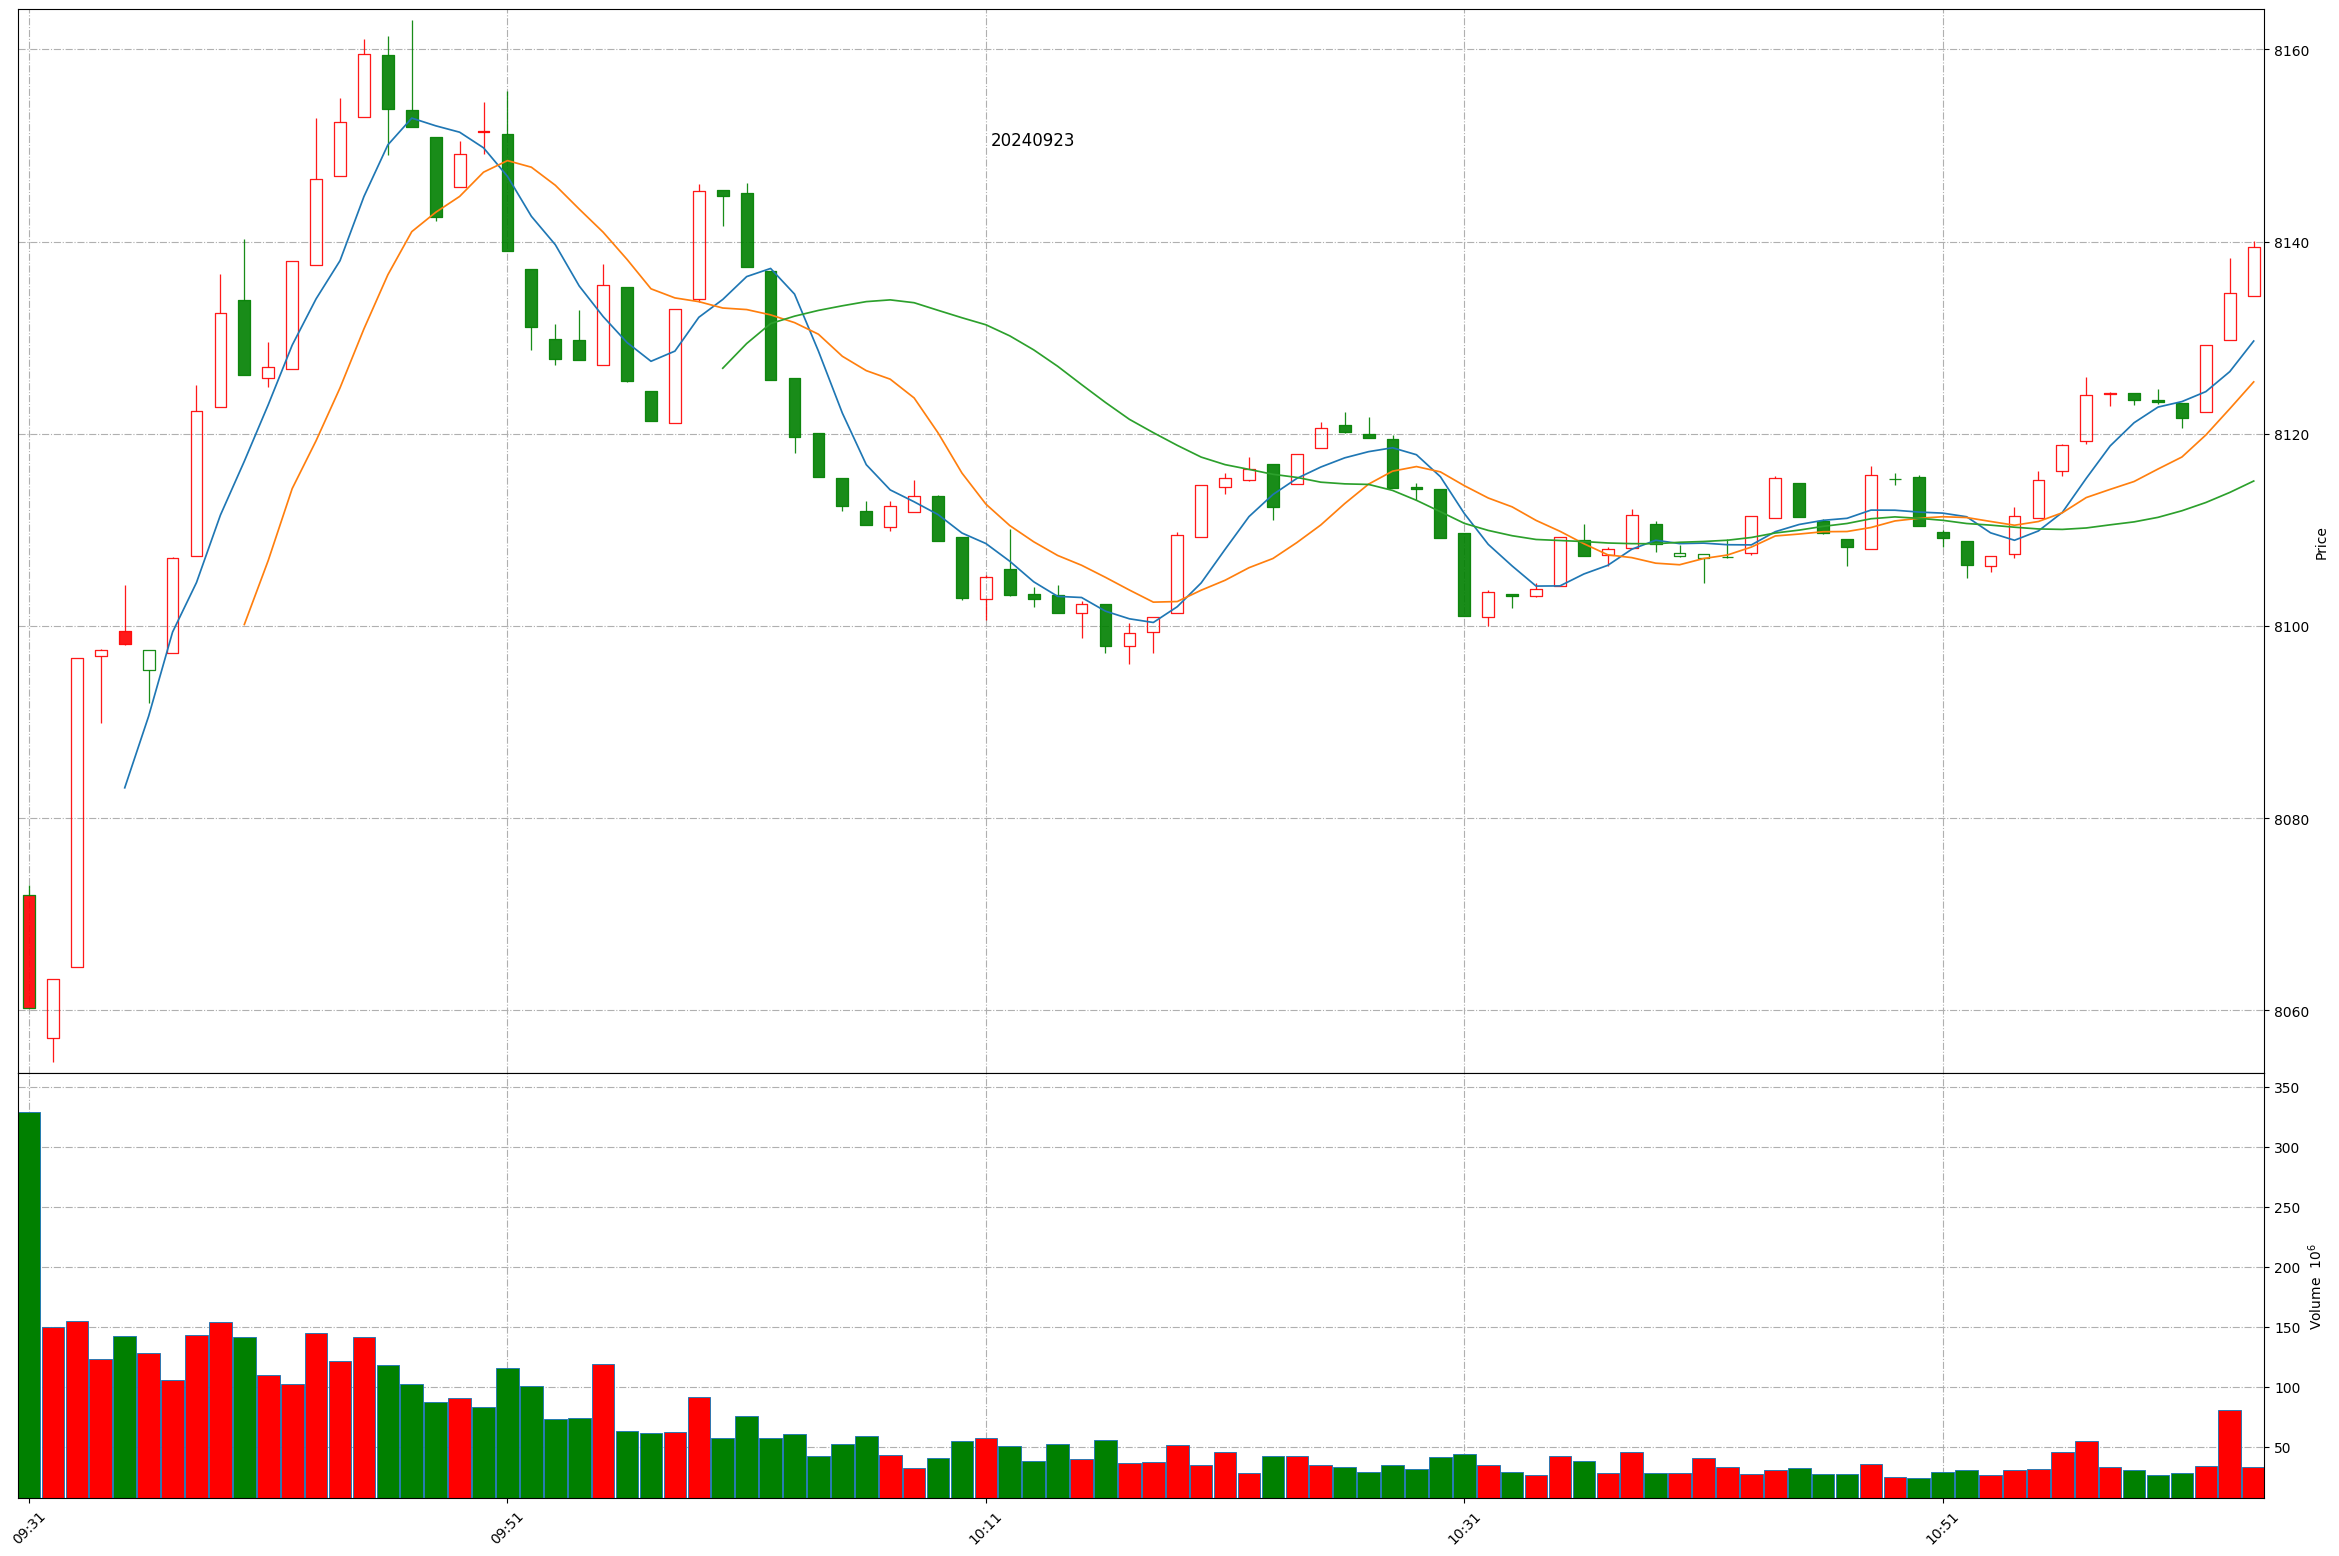
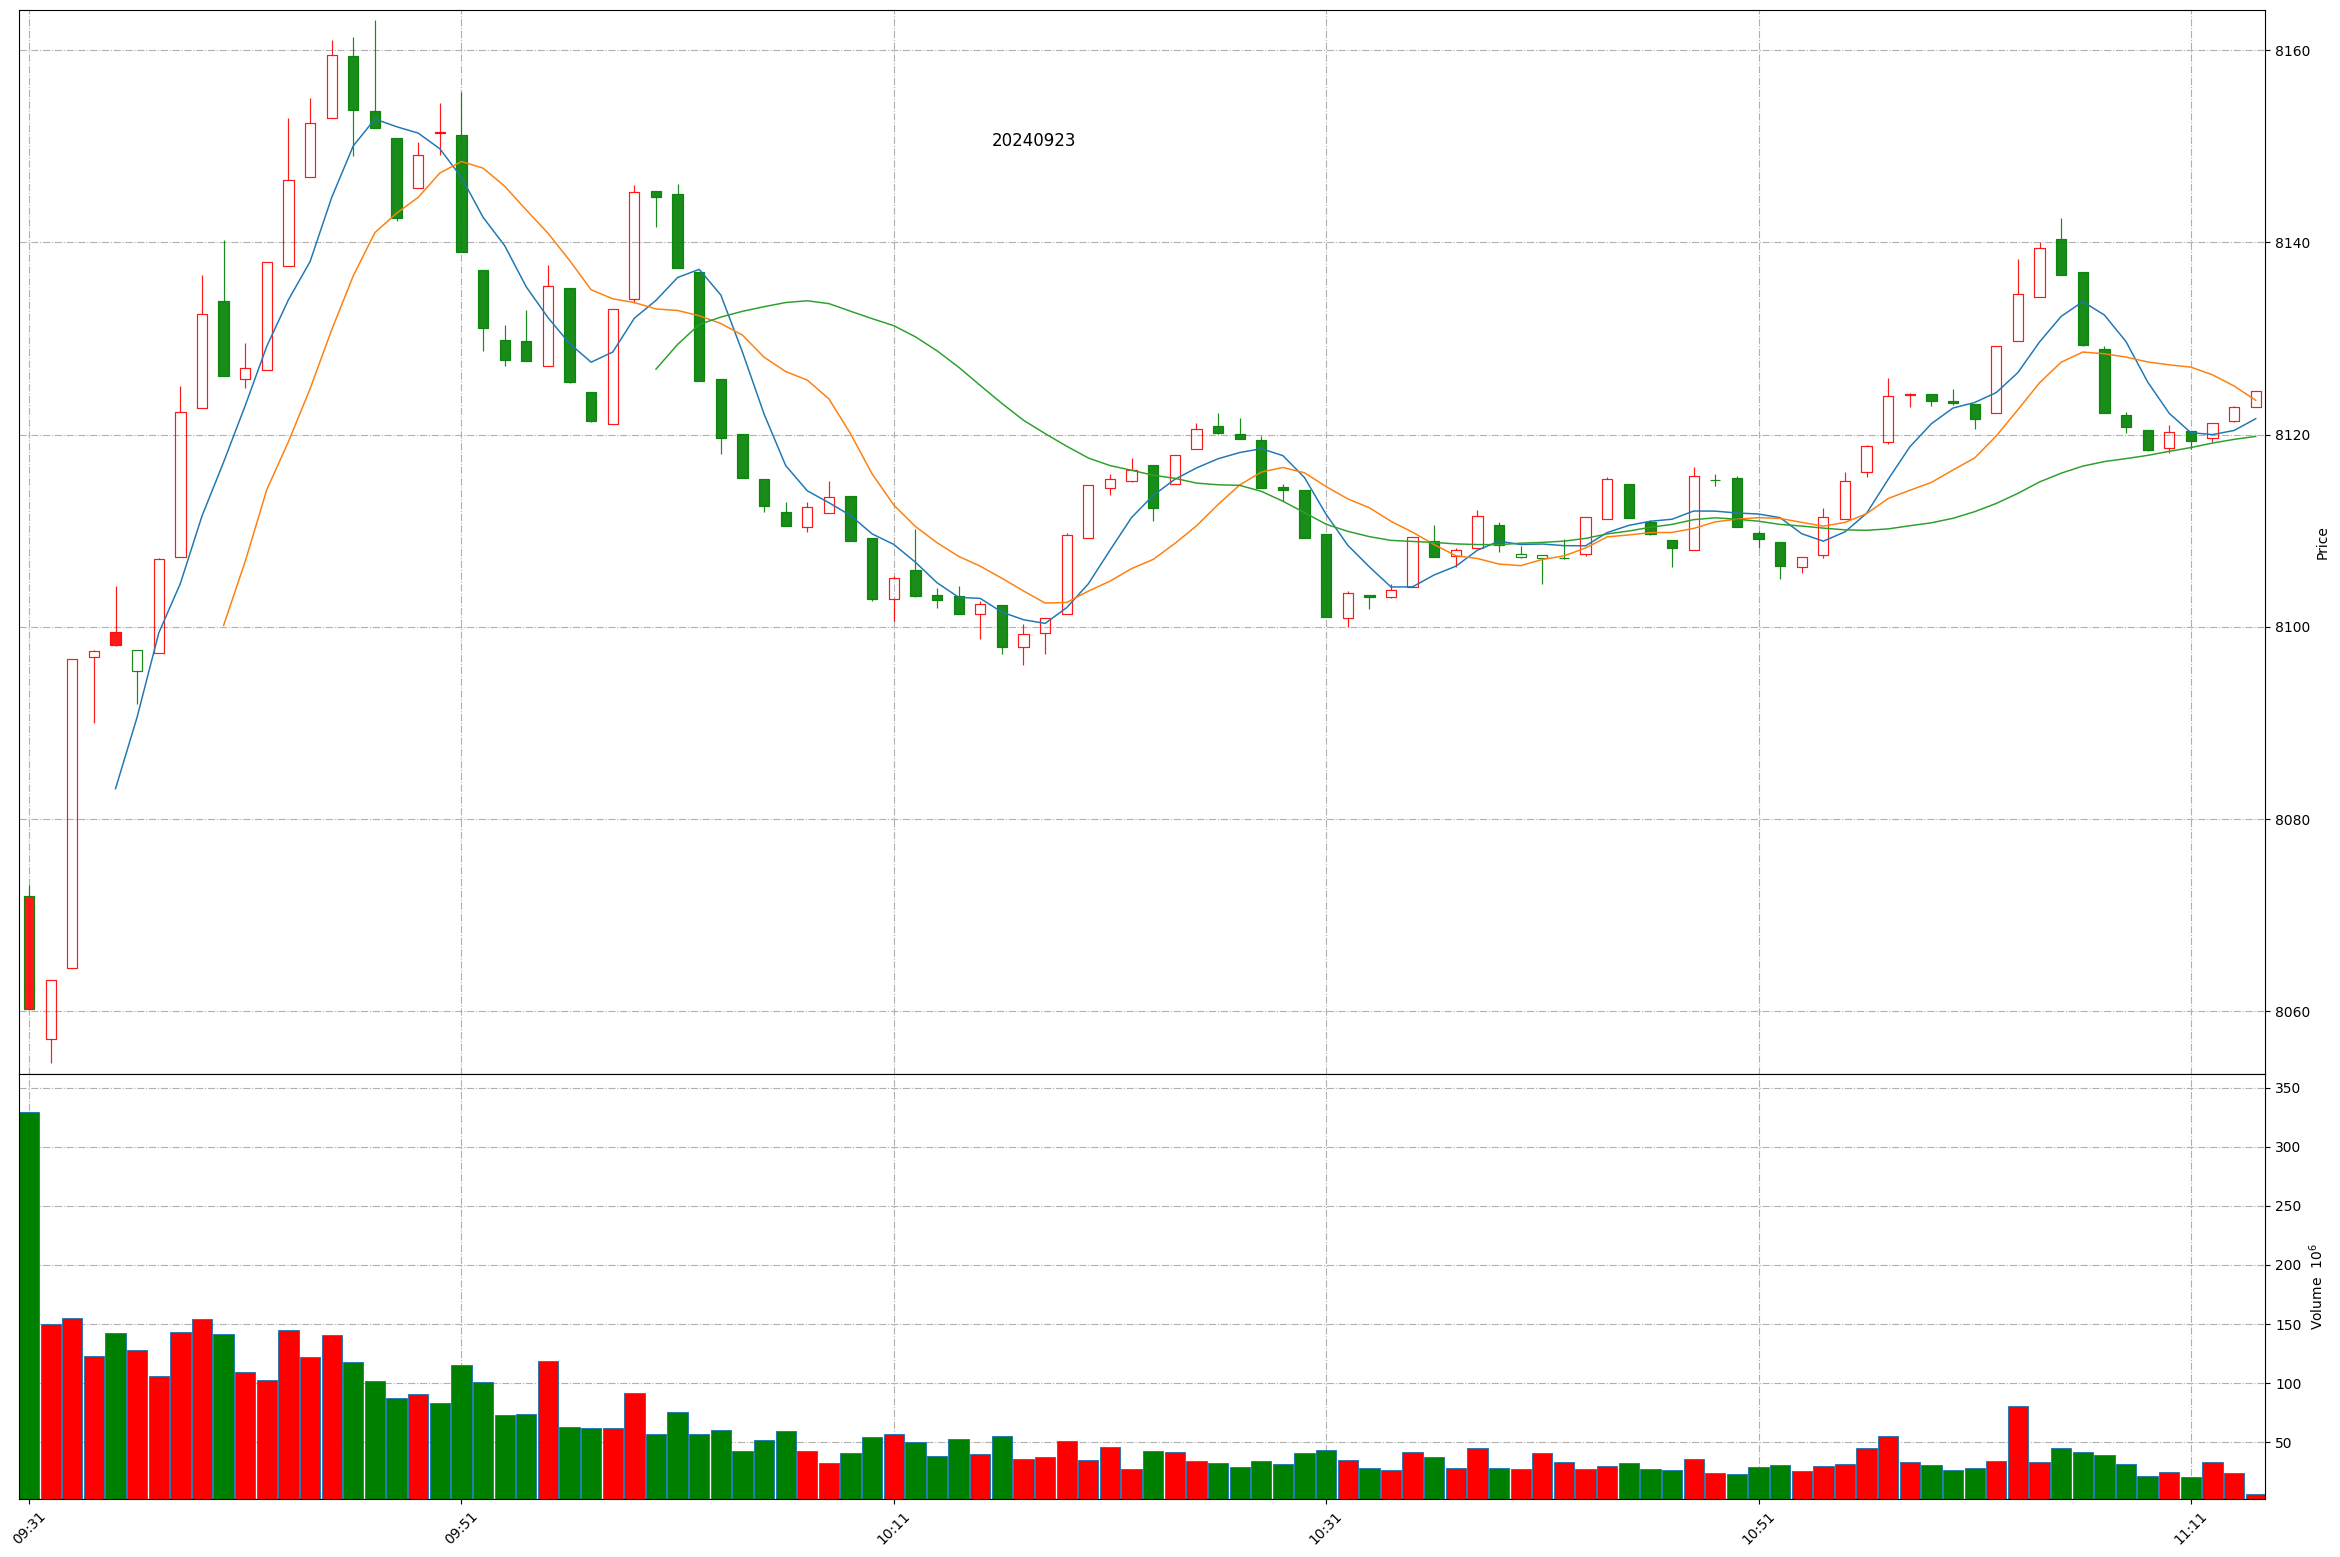
Github action update at 2024-09-23 11:13:27.

diff --git a/README.md b/README.md
@@ -1,11 +1,11 @@
 
 # Daily-A-share-market-quotes 每日 A 股指数（5min 更新）- 20240923
 
-### 上证指数 20240923 11:4
+### 上证指数 20240923 11:13
 ![](./fig/2024/9/20240923-sh000001.png)
 
-### 深证成指 20240923 11:4
+### 深证成指 20240923 11:13
 ![](./fig/2024/9/20240923-sz399001.png)
 
-### 北证50 20240923 11:4
+### 北证50 20240923 11:13
 ![](./fig/2024/9/20240923-bj899050.png)
